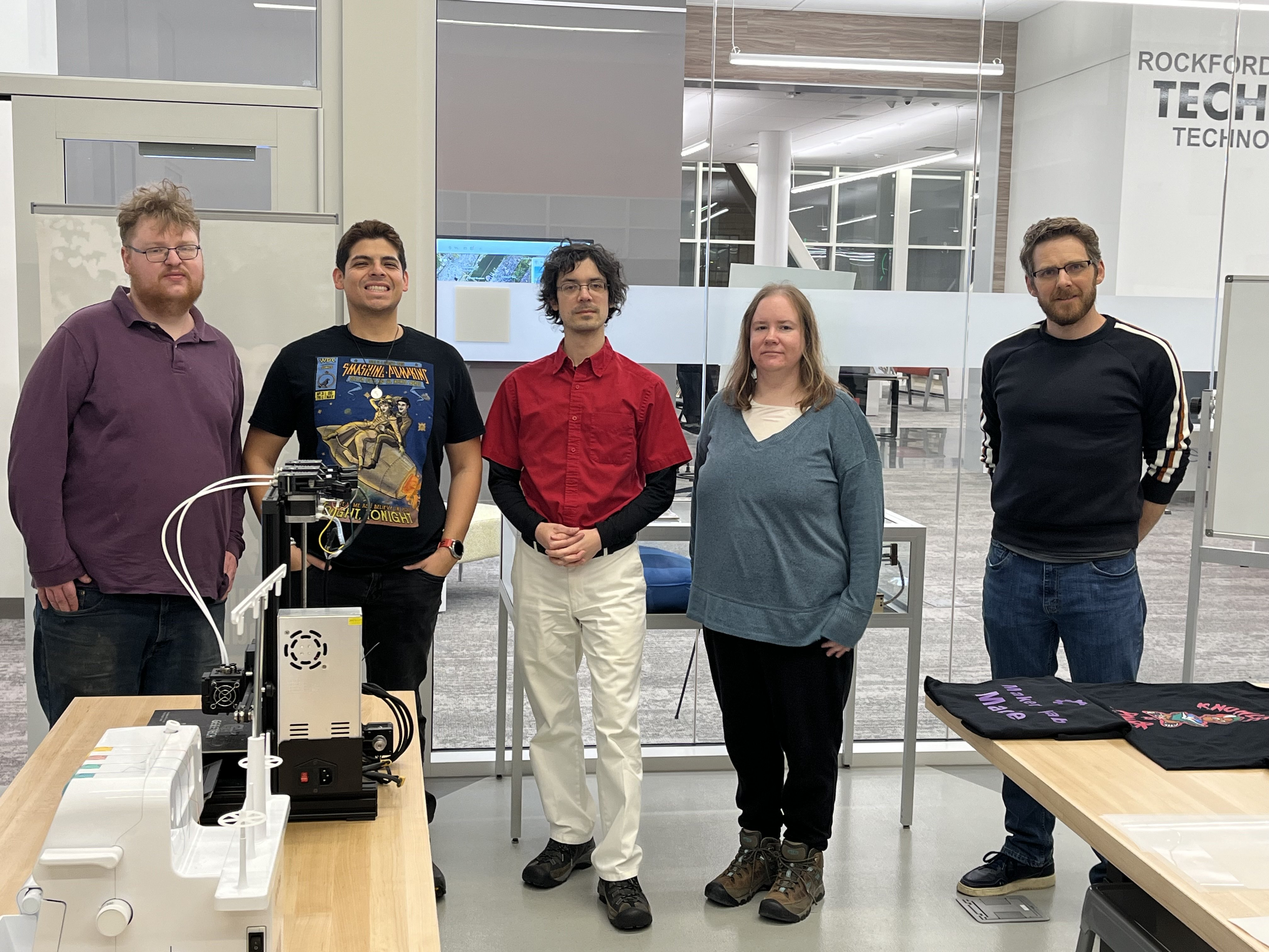
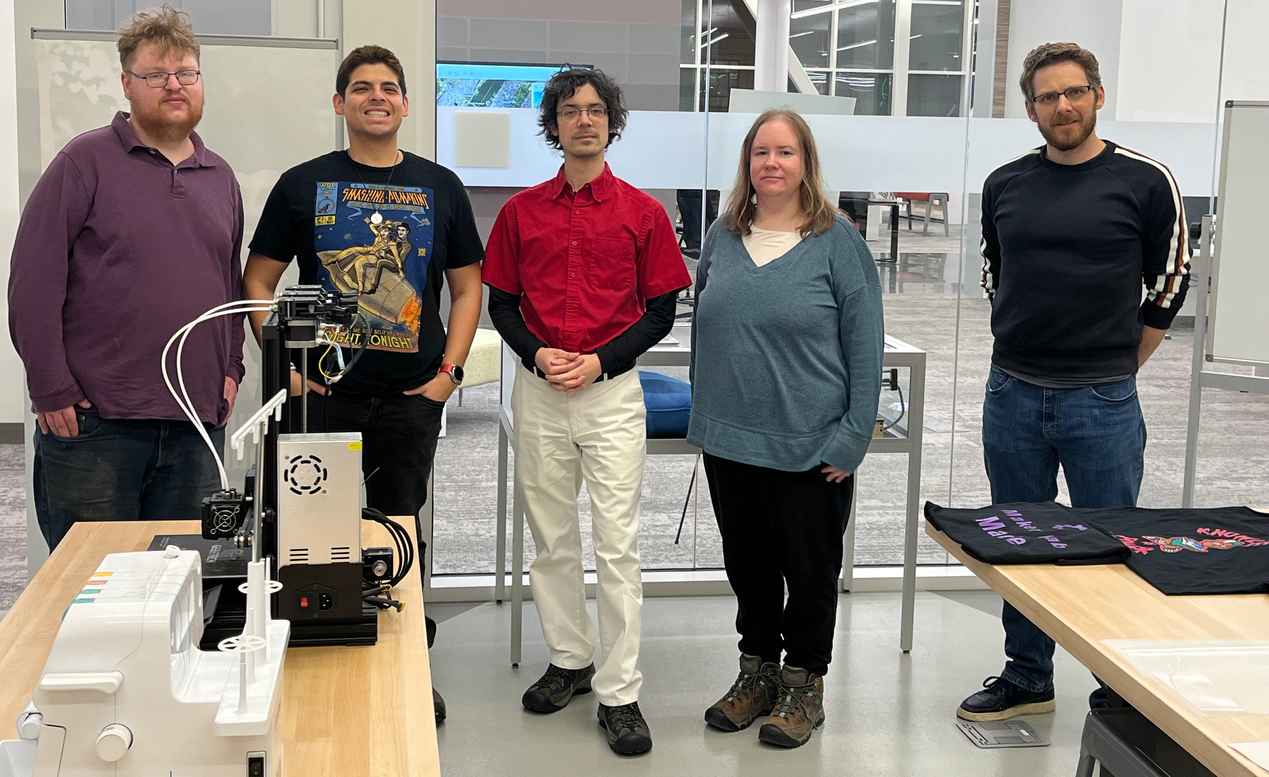
Yet another attempt at fixing the header image

diff --git a/index.html b/index.html
@@ -22,16 +22,14 @@ h1, h2, h3, h4 {
 }
 
 .rd-hero {
-    background: #023047 url('/img/group-photo.jpg') no-repeat center;
+    background: #023047 url('/img/group-photo.jpg') no-repeat top;
     background-size: cover;
-    padding: 10em 10em;
 }
 
 .rd-hero-content {
     text-align: center;
-    padding: 5em 5em;
+    padding: 15em 15em;
     background: rgba(2, 48, 71, 75%);
-    border-radius: 3em;
 }
 
 .rd-hero-content h1 {
